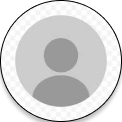
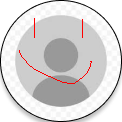
Update profile picture handling and improve loading indicators in mentor display

diff --git a/lib/Middleware/local_storage.dart b/lib/Middleware/local_storage.dart
@@ -114,7 +114,7 @@ class LocalStorage {
   /// Returns the users that the current user has as contacts.
   Future<List<User>?> fetchContactsForUser(User user) async {
     // Generate 3 test users
-    return List.generate(
+    List<User> a = List<User>.generate(
       10,
       (index) => User(
         AuthToken('user_token_$index'),
@@ -123,6 +123,10 @@ class LocalStorage {
         index % 2 == 0,
       ),
     );
+    a.add(getCurrentUserFromStorage()!);
+    // return a with a delay to simulate network
+    await Future.delayed(const Duration(seconds: 1));
+    return a;
     try {
       final response = await _networking.getList(
         '/users',

diff --git a/lib/Views/Manual/login_placeholder.dart b/lib/Views/Manual/login_placeholder.dart
@@ -30,7 +30,12 @@ class LoginPlaceholder extends StatelessWidget {
                 final storage = LocalStorage();
                 await storage.saveAuthToken(testToken);
 
-                final testUser = User(testToken, 'Test User', null, false);
+                final testUser = User(
+                  testToken,
+                  'Test User',
+                  Image.asset('assets/images/blank_profile_pic.png'),
+                  false,
+                );
                 currentUserStore.setUser(testUser);
 
                 // Navigate into the main app scaffold so bottom tabs are present.

diff --git a/lib/Views/Manual/example_display_listof_mentors.dart b/lib/Views/Manual/example_display_listof_mentors.dart
@@ -25,7 +25,7 @@ class _ExampleDisplayListofMentorsState
         builder: (context, snapshot) {
           if (snapshot.connectionState == ConnectionState.waiting) {
             print("Loading mentors...");
-            return const Center(child: CircularProgressIndicator());
+            return Center(child: CircularProgressIndicator());
           } else if (snapshot.hasError) {
             print("Error loading mentors: ${snapshot.error}");
             return Center(child: Text('Error: ${snapshot.error}'));

diff --git a/lib/Components/Manual/contact_entry.dart b/lib/Components/Manual/contact_entry.dart
@@ -30,7 +30,7 @@ class _ContactEntryState extends State<ContactEntry> {
               Padding(
                 padding: const EdgeInsets.all(8.0),
                 child: CircleAvatar(
-                  radius: 30.0,
+                  radius: 35.0,
                   backgroundColor: Colors.blue,
                   child: widget.user.avatar != null
                       ? ClipOval(
